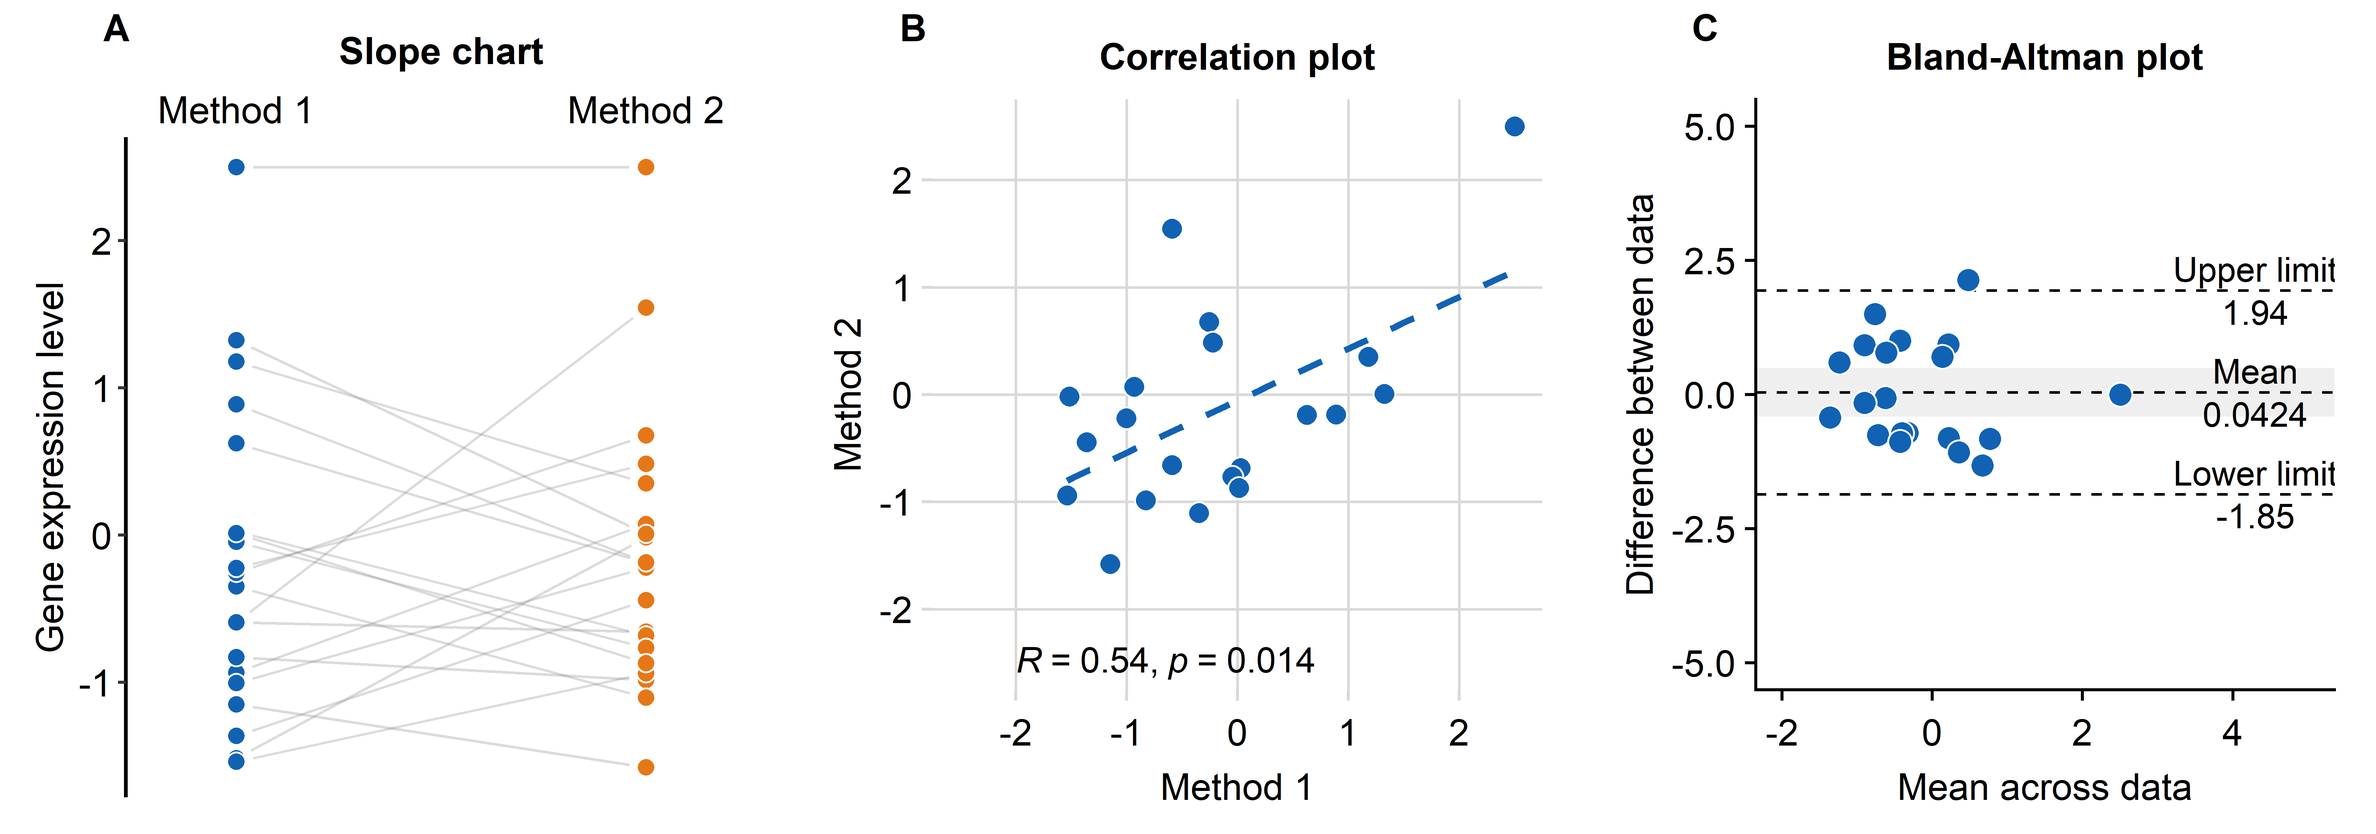
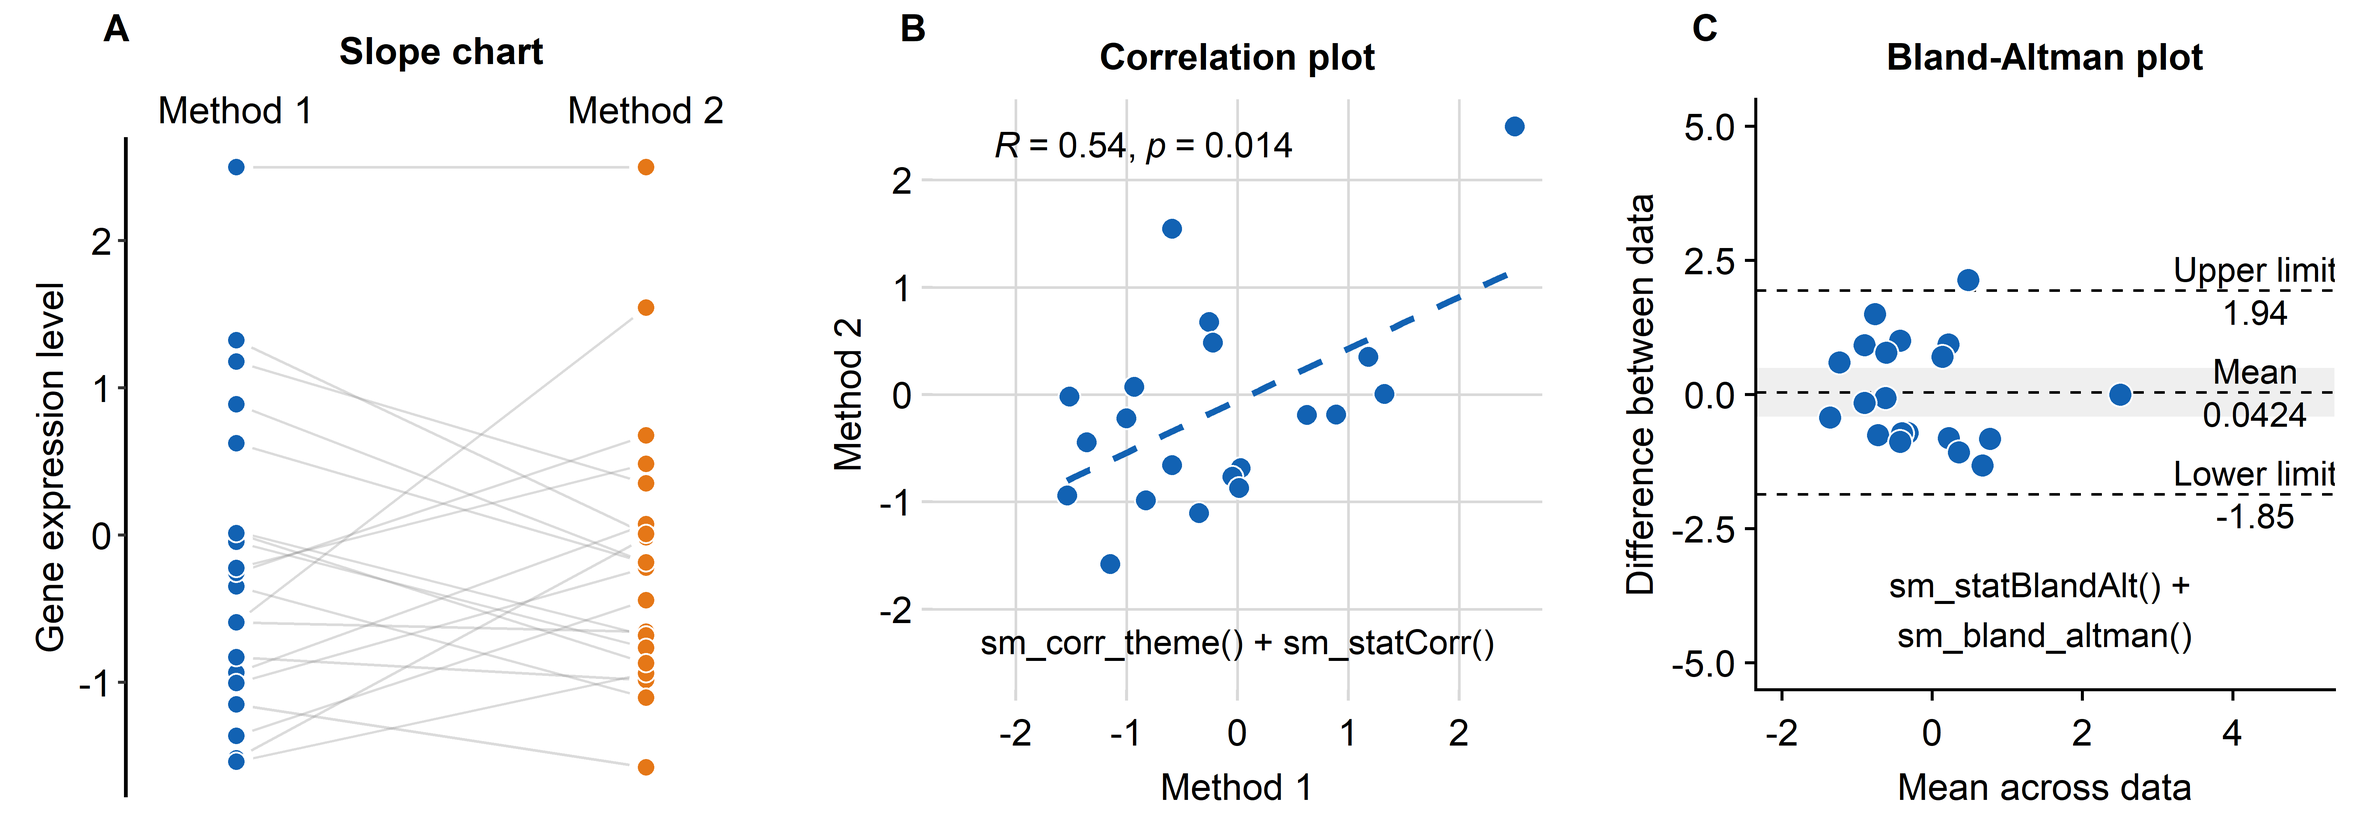
annotation added ch6 case study

diff --git a/docs/recreating-the-manuscript-figures.html b/docs/recreating-the-manuscript-figures.html
@@ -24,7 +24,7 @@
 <meta name="author" content="Seung Hyun Min" />
 
 
-<meta name="date" content="2021-10-26" />
+<meta name="date" content="2021-10-27" />
 
   <meta name="viewport" content="width=device-width, initial-scale=1" />
   <meta name="apple-mobile-web-app-capable" content="yes" />
@@ -648,34 +648,36 @@ code span.wa { color: #60a0b0; font-weight: bold; font-style: italic; } /* Warni
 <span id="cb176-26"><a href="recreating-the-manuscript-figures.html#cb176-26" aria-hidden="true" tabindex="-1"></a>  <span class="fu">scale_y_continuous</span>(<span class="at">limits =</span> <span class="fu">c</span>(<span class="sc">-</span><span class="fl">2.5</span>,<span class="fl">2.5</span>)) <span class="sc">+</span></span>
 <span id="cb176-27"><a href="recreating-the-manuscript-figures.html#cb176-27" aria-hidden="true" tabindex="-1"></a>  <span class="fu">scale_x_continuous</span>(<span class="at">limits =</span> <span class="fu">c</span>(<span class="sc">-</span><span class="fl">2.5</span>,<span class="fl">2.5</span>)) <span class="sc">+</span></span>
 <span id="cb176-28"><a href="recreating-the-manuscript-figures.html#cb176-28" aria-hidden="true" tabindex="-1"></a>  <span class="fu">sm_statCorr</span>(<span class="at">color =</span> <span class="fu">sm_color</span>(<span class="st">&#39;blue&#39;</span>), <span class="at">corr_method =</span> <span class="st">&#39;pearson&#39;</span>,</span>
-<span id="cb176-29"><a href="recreating-the-manuscript-figures.html#cb176-29" aria-hidden="true" tabindex="-1"></a>              <span class="at">label_x =</span> <span class="sc">-</span><span class="dv">2</span>, <span class="at">label_y =</span> <span class="sc">-</span><span class="fl">2.5</span>) <span class="sc">+</span></span>
+<span id="cb176-29"><a href="recreating-the-manuscript-figures.html#cb176-29" aria-hidden="true" tabindex="-1"></a>              <span class="at">label_x =</span> <span class="sc">-</span><span class="fl">2.2</span>, <span class="at">label_y =</span> <span class="fl">2.3</span>) <span class="sc">+</span></span>
 <span id="cb176-30"><a href="recreating-the-manuscript-figures.html#cb176-30" aria-hidden="true" tabindex="-1"></a>  <span class="fu">ggtitle</span>(<span class="st">&#39;Correlation plot&#39;</span>) <span class="sc">+</span> </span>
-<span id="cb176-31"><a href="recreating-the-manuscript-figures.html#cb176-31" aria-hidden="true" tabindex="-1"></a>  <span class="fu">xlab</span>(<span class="st">&#39;Method 1&#39;</span>) <span class="sc">+</span> <span class="fu">ylab</span>(<span class="st">&#39;Method 2&#39;</span>)</span>
-<span id="cb176-32"><a href="recreating-the-manuscript-figures.html#cb176-32" aria-hidden="true" tabindex="-1"></a></span>
-<span id="cb176-33"><a href="recreating-the-manuscript-figures.html#cb176-33" aria-hidden="true" tabindex="-1"></a><span class="co"># BA plot</span></span>
-<span id="cb176-34"><a href="recreating-the-manuscript-figures.html#cb176-34" aria-hidden="true" tabindex="-1"></a>res <span class="ot">&lt;-</span> <span class="fu">sm_statBlandAlt</span>(df3<span class="sc">$</span>first,df3<span class="sc">$</span>second)</span>
-<span id="cb176-35"><a href="recreating-the-manuscript-figures.html#cb176-35" aria-hidden="true" tabindex="-1"></a></span>
-<span id="cb176-36"><a href="recreating-the-manuscript-figures.html#cb176-36" aria-hidden="true" tabindex="-1"></a>ba_plot <span class="ot">&lt;-</span> <span class="fu">sm_bland_altman</span>(df3<span class="sc">$</span>first, df3<span class="sc">$</span>second, <span class="at">shape =</span> <span class="dv">21</span>,</span>
-<span id="cb176-37"><a href="recreating-the-manuscript-figures.html#cb176-37" aria-hidden="true" tabindex="-1"></a>                <span class="at">color =</span> <span class="st">&#39;white&#39;</span>,</span>
-<span id="cb176-38"><a href="recreating-the-manuscript-figures.html#cb176-38" aria-hidden="true" tabindex="-1"></a>                <span class="at">fill =</span> <span class="fu">sm_color</span>(<span class="st">&#39;blue&#39;</span>)) <span class="sc">+</span> </span>
-<span id="cb176-39"><a href="recreating-the-manuscript-figures.html#cb176-39" aria-hidden="true" tabindex="-1"></a>  <span class="fu">scale_y_continuous</span>(<span class="at">limits =</span> <span class="fu">c</span>(<span class="sc">-</span><span class="dv">5</span>,<span class="dv">5</span>)) <span class="sc">+</span></span>
-<span id="cb176-40"><a href="recreating-the-manuscript-figures.html#cb176-40" aria-hidden="true" tabindex="-1"></a>  <span class="fu">scale_x_continuous</span>(<span class="at">limits =</span> <span class="fu">c</span>(<span class="sc">-</span><span class="dv">2</span>,<span class="dv">5</span>)) <span class="sc">+</span></span>
-<span id="cb176-41"><a href="recreating-the-manuscript-figures.html#cb176-41" aria-hidden="true" tabindex="-1"></a>  <span class="fu">annotate</span>(<span class="st">&#39;text&#39;</span>, <span class="at">label =</span> <span class="st">&#39;Mean&#39;</span>, <span class="at">x =</span> <span class="fl">4.3</span>, <span class="at">y =</span> res<span class="sc">$</span>mean_diff <span class="sc">+</span> <span class="fl">0.4</span>) <span class="sc">+</span></span>
-<span id="cb176-42"><a href="recreating-the-manuscript-figures.html#cb176-42" aria-hidden="true" tabindex="-1"></a>  <span class="fu">annotate</span>(<span class="st">&#39;text&#39;</span>, <span class="at">label =</span> <span class="fu">signif</span>(res<span class="sc">$</span>mean_diff,<span class="dv">3</span>), <span class="at">x =</span> <span class="fl">4.3</span>, <span class="at">y =</span> res<span class="sc">$</span>mean_diff <span class="sc">-</span> <span class="fl">0.4</span>) <span class="sc">+</span></span>
-<span id="cb176-43"><a href="recreating-the-manuscript-figures.html#cb176-43" aria-hidden="true" tabindex="-1"></a>  <span class="fu">annotate</span>(<span class="st">&#39;text&#39;</span>, <span class="at">label =</span> <span class="st">&#39;Upper limit&#39;</span>, <span class="at">x =</span> <span class="fl">4.3</span>, <span class="at">y =</span> res<span class="sc">$</span>upper_limit <span class="sc">+</span> <span class="fl">0.4</span>) <span class="sc">+</span></span>
-<span id="cb176-44"><a href="recreating-the-manuscript-figures.html#cb176-44" aria-hidden="true" tabindex="-1"></a>  <span class="fu">annotate</span>(<span class="st">&#39;text&#39;</span>, <span class="at">label =</span> <span class="fu">signif</span>(res<span class="sc">$</span>upper_limit,<span class="dv">3</span>), <span class="at">x =</span> <span class="fl">4.3</span>, <span class="at">y =</span> res<span class="sc">$</span>upper_limit <span class="sc">-</span> <span class="fl">0.4</span>) <span class="sc">+</span></span>
-<span id="cb176-45"><a href="recreating-the-manuscript-figures.html#cb176-45" aria-hidden="true" tabindex="-1"></a>  <span class="fu">annotate</span>(<span class="st">&#39;text&#39;</span>, <span class="at">label =</span> <span class="st">&#39;Lower limit&#39;</span>, <span class="at">x =</span> <span class="fl">4.3</span>, <span class="at">y =</span> res<span class="sc">$</span>lower_limit <span class="sc">+</span> <span class="fl">0.4</span>) <span class="sc">+</span></span>
-<span id="cb176-46"><a href="recreating-the-manuscript-figures.html#cb176-46" aria-hidden="true" tabindex="-1"></a>  <span class="fu">annotate</span>(<span class="st">&#39;text&#39;</span>, <span class="at">label =</span> <span class="fu">signif</span>(res<span class="sc">$</span>lower_limit,<span class="dv">3</span>), <span class="at">x =</span> <span class="fl">4.3</span>, <span class="at">y =</span> res<span class="sc">$</span>lower_limit <span class="sc">-</span> <span class="fl">0.4</span>) <span class="sc">+</span> </span>
-<span id="cb176-47"><a href="recreating-the-manuscript-figures.html#cb176-47" aria-hidden="true" tabindex="-1"></a>  <span class="fu">ggtitle</span>(<span class="st">&#39;Bland-Altman plot&#39;</span>) </span>
-<span id="cb176-48"><a href="recreating-the-manuscript-figures.html#cb176-48" aria-hidden="true" tabindex="-1"></a></span>
-<span id="cb176-49"><a href="recreating-the-manuscript-figures.html#cb176-49" aria-hidden="true" tabindex="-1"></a>case_study <span class="ot">&lt;-</span> <span class="fu">plot_grid</span>(slope, corr_plot, ba_plot, </span>
-<span id="cb176-50"><a href="recreating-the-manuscript-figures.html#cb176-50" aria-hidden="true" tabindex="-1"></a>                     <span class="at">labels =</span> <span class="fu">c</span>(<span class="st">&quot;A&quot;</span>, <span class="st">&quot;B&quot;</span>, <span class="st">&quot;C&quot;</span>),</span>
-<span id="cb176-51"><a href="recreating-the-manuscript-figures.html#cb176-51" aria-hidden="true" tabindex="-1"></a>                     <span class="at">hjust =</span> <span class="sc">-</span><span class="dv">4</span>, <span class="co"># horizontal position of ABC labels</span></span>
-<span id="cb176-52"><a href="recreating-the-manuscript-figures.html#cb176-52" aria-hidden="true" tabindex="-1"></a>                     <span class="at">label_size =</span> <span class="dv">12</span>,</span>
-<span id="cb176-53"><a href="recreating-the-manuscript-figures.html#cb176-53" aria-hidden="true" tabindex="-1"></a>                     <span class="at">ncol =</span> <span class="dv">3</span>, <span class="at">nrow =</span> <span class="dv">1</span>, </span>
-<span id="cb176-54"><a href="recreating-the-manuscript-figures.html#cb176-54" aria-hidden="true" tabindex="-1"></a>                     <span class="at">scale =</span> <span class="fl">0.95</span>)</span>
-<span id="cb176-55"><a href="recreating-the-manuscript-figures.html#cb176-55" aria-hidden="true" tabindex="-1"></a></span>
-<span id="cb176-56"><a href="recreating-the-manuscript-figures.html#cb176-56" aria-hidden="true" tabindex="-1"></a><span class="fu">print</span>(case_study)</span></code></pre></div>
+<span id="cb176-31"><a href="recreating-the-manuscript-figures.html#cb176-31" aria-hidden="true" tabindex="-1"></a>  <span class="fu">xlab</span>(<span class="st">&#39;Method 1&#39;</span>) <span class="sc">+</span> <span class="fu">ylab</span>(<span class="st">&#39;Method 2&#39;</span>) <span class="sc">+</span></span>
+<span id="cb176-32"><a href="recreating-the-manuscript-figures.html#cb176-32" aria-hidden="true" tabindex="-1"></a>  <span class="fu">annotate</span>(<span class="st">&#39;text&#39;</span>, <span class="at">x =</span> <span class="dv">0</span>, <span class="at">y =</span> <span class="sc">-</span><span class="fl">2.3</span>, <span class="at">label =</span> <span class="st">&#39;sm_corr_theme() + sm_statCorr()&#39;</span>)</span>
+<span id="cb176-33"><a href="recreating-the-manuscript-figures.html#cb176-33" aria-hidden="true" tabindex="-1"></a></span>
+<span id="cb176-34"><a href="recreating-the-manuscript-figures.html#cb176-34" aria-hidden="true" tabindex="-1"></a><span class="co"># BA plot</span></span>
+<span id="cb176-35"><a href="recreating-the-manuscript-figures.html#cb176-35" aria-hidden="true" tabindex="-1"></a>res <span class="ot">&lt;-</span> <span class="fu">sm_statBlandAlt</span>(df3<span class="sc">$</span>first,df3<span class="sc">$</span>second)</span>
+<span id="cb176-36"><a href="recreating-the-manuscript-figures.html#cb176-36" aria-hidden="true" tabindex="-1"></a></span>
+<span id="cb176-37"><a href="recreating-the-manuscript-figures.html#cb176-37" aria-hidden="true" tabindex="-1"></a>ba_plot <span class="ot">&lt;-</span> <span class="fu">sm_bland_altman</span>(df3<span class="sc">$</span>first, df3<span class="sc">$</span>second, <span class="at">shape =</span> <span class="dv">21</span>,</span>
+<span id="cb176-38"><a href="recreating-the-manuscript-figures.html#cb176-38" aria-hidden="true" tabindex="-1"></a>                <span class="at">color =</span> <span class="st">&#39;white&#39;</span>,</span>
+<span id="cb176-39"><a href="recreating-the-manuscript-figures.html#cb176-39" aria-hidden="true" tabindex="-1"></a>                <span class="at">fill =</span> <span class="fu">sm_color</span>(<span class="st">&#39;blue&#39;</span>)) <span class="sc">+</span> </span>
+<span id="cb176-40"><a href="recreating-the-manuscript-figures.html#cb176-40" aria-hidden="true" tabindex="-1"></a>  <span class="fu">scale_y_continuous</span>(<span class="at">limits =</span> <span class="fu">c</span>(<span class="sc">-</span><span class="dv">5</span>,<span class="dv">5</span>)) <span class="sc">+</span></span>
+<span id="cb176-41"><a href="recreating-the-manuscript-figures.html#cb176-41" aria-hidden="true" tabindex="-1"></a>  <span class="fu">scale_x_continuous</span>(<span class="at">limits =</span> <span class="fu">c</span>(<span class="sc">-</span><span class="dv">2</span>,<span class="dv">5</span>)) <span class="sc">+</span></span>
+<span id="cb176-42"><a href="recreating-the-manuscript-figures.html#cb176-42" aria-hidden="true" tabindex="-1"></a>  <span class="fu">annotate</span>(<span class="st">&#39;text&#39;</span>, <span class="at">label =</span> <span class="st">&#39;Mean&#39;</span>, <span class="at">x =</span> <span class="fl">4.3</span>, <span class="at">y =</span> res<span class="sc">$</span>mean_diff <span class="sc">+</span> <span class="fl">0.4</span>) <span class="sc">+</span></span>
+<span id="cb176-43"><a href="recreating-the-manuscript-figures.html#cb176-43" aria-hidden="true" tabindex="-1"></a>  <span class="fu">annotate</span>(<span class="st">&#39;text&#39;</span>, <span class="at">label =</span> <span class="fu">signif</span>(res<span class="sc">$</span>mean_diff,<span class="dv">3</span>), <span class="at">x =</span> <span class="fl">4.3</span>, <span class="at">y =</span> res<span class="sc">$</span>mean_diff <span class="sc">-</span> <span class="fl">0.4</span>) <span class="sc">+</span></span>
+<span id="cb176-44"><a href="recreating-the-manuscript-figures.html#cb176-44" aria-hidden="true" tabindex="-1"></a>  <span class="fu">annotate</span>(<span class="st">&#39;text&#39;</span>, <span class="at">label =</span> <span class="st">&#39;Upper limit&#39;</span>, <span class="at">x =</span> <span class="fl">4.3</span>, <span class="at">y =</span> res<span class="sc">$</span>upper_limit <span class="sc">+</span> <span class="fl">0.4</span>) <span class="sc">+</span></span>
+<span id="cb176-45"><a href="recreating-the-manuscript-figures.html#cb176-45" aria-hidden="true" tabindex="-1"></a>  <span class="fu">annotate</span>(<span class="st">&#39;text&#39;</span>, <span class="at">label =</span> <span class="fu">signif</span>(res<span class="sc">$</span>upper_limit,<span class="dv">3</span>), <span class="at">x =</span> <span class="fl">4.3</span>, <span class="at">y =</span> res<span class="sc">$</span>upper_limit <span class="sc">-</span> <span class="fl">0.4</span>) <span class="sc">+</span></span>
+<span id="cb176-46"><a href="recreating-the-manuscript-figures.html#cb176-46" aria-hidden="true" tabindex="-1"></a>  <span class="fu">annotate</span>(<span class="st">&#39;text&#39;</span>, <span class="at">label =</span> <span class="st">&#39;Lower limit&#39;</span>, <span class="at">x =</span> <span class="fl">4.3</span>, <span class="at">y =</span> res<span class="sc">$</span>lower_limit <span class="sc">+</span> <span class="fl">0.4</span>) <span class="sc">+</span></span>
+<span id="cb176-47"><a href="recreating-the-manuscript-figures.html#cb176-47" aria-hidden="true" tabindex="-1"></a>  <span class="fu">annotate</span>(<span class="st">&#39;text&#39;</span>, <span class="at">label =</span> <span class="fu">signif</span>(res<span class="sc">$</span>lower_limit,<span class="dv">3</span>), <span class="at">x =</span> <span class="fl">4.3</span>, <span class="at">y =</span> res<span class="sc">$</span>lower_limit <span class="sc">-</span> <span class="fl">0.4</span>) <span class="sc">+</span> </span>
+<span id="cb176-48"><a href="recreating-the-manuscript-figures.html#cb176-48" aria-hidden="true" tabindex="-1"></a>  <span class="fu">ggtitle</span>(<span class="st">&#39;Bland-Altman plot&#39;</span>) <span class="sc">+</span></span>
+<span id="cb176-49"><a href="recreating-the-manuscript-figures.html#cb176-49" aria-hidden="true" tabindex="-1"></a>  <span class="fu">annotate</span>(<span class="st">&#39;text&#39;</span>, <span class="at">x =</span> <span class="fl">1.5</span>, <span class="at">y =</span> <span class="sc">-</span><span class="dv">4</span>, <span class="at">label =</span> <span class="st">&#39;sm_statBlandAlt() + </span><span class="sc">\n</span><span class="st">sm_bland_altman()&#39;</span>)</span>
+<span id="cb176-50"><a href="recreating-the-manuscript-figures.html#cb176-50" aria-hidden="true" tabindex="-1"></a></span>
+<span id="cb176-51"><a href="recreating-the-manuscript-figures.html#cb176-51" aria-hidden="true" tabindex="-1"></a>case_study <span class="ot">&lt;-</span> <span class="fu">plot_grid</span>(slope, corr_plot, ba_plot, </span>
+<span id="cb176-52"><a href="recreating-the-manuscript-figures.html#cb176-52" aria-hidden="true" tabindex="-1"></a>                     <span class="at">labels =</span> <span class="fu">c</span>(<span class="st">&quot;A&quot;</span>, <span class="st">&quot;B&quot;</span>, <span class="st">&quot;C&quot;</span>),</span>
+<span id="cb176-53"><a href="recreating-the-manuscript-figures.html#cb176-53" aria-hidden="true" tabindex="-1"></a>                     <span class="at">hjust =</span> <span class="sc">-</span><span class="dv">4</span>, <span class="co"># horizontal position of ABC labels</span></span>
+<span id="cb176-54"><a href="recreating-the-manuscript-figures.html#cb176-54" aria-hidden="true" tabindex="-1"></a>                     <span class="at">label_size =</span> <span class="dv">12</span>,</span>
+<span id="cb176-55"><a href="recreating-the-manuscript-figures.html#cb176-55" aria-hidden="true" tabindex="-1"></a>                     <span class="at">ncol =</span> <span class="dv">3</span>, <span class="at">nrow =</span> <span class="dv">1</span>, </span>
+<span id="cb176-56"><a href="recreating-the-manuscript-figures.html#cb176-56" aria-hidden="true" tabindex="-1"></a>                     <span class="at">scale =</span> <span class="fl">0.95</span>)</span>
+<span id="cb176-57"><a href="recreating-the-manuscript-figures.html#cb176-57" aria-hidden="true" tabindex="-1"></a></span>
+<span id="cb176-58"><a href="recreating-the-manuscript-figures.html#cb176-58" aria-hidden="true" tabindex="-1"></a><span class="fu">print</span>(case_study)</span></code></pre></div>
 <p><img src="bookdownproj_files/figure-html/unnamed-chunk-143-1.png" width="1051.2" /></p>
 <div class="sourceCode" id="cb177"><pre class="sourceCode r"><code class="sourceCode r"><span id="cb177-1"><a href="recreating-the-manuscript-figures.html#cb177-1" aria-hidden="true" tabindex="-1"></a><span class="fu">save_plot</span>(<span class="st">&quot;case_study.png&quot;</span>, </span>
 <span id="cb177-2"><a href="recreating-the-manuscript-figures.html#cb177-2" aria-hidden="true" tabindex="-1"></a>          case_study, <span class="at">ncol =</span> <span class="dv">3</span>, <span class="at">nrow =</span> <span class="dv">1</span>, <span class="at">base_asp =</span> .<span class="dv">95</span>,</span>

diff --git a/docs/index.html b/docs/index.html
@@ -24,7 +24,7 @@
 <meta name="author" content="Seung Hyun Min" />
 
 
-<meta name="date" content="2021-10-26" />
+<meta name="date" content="2021-10-27" />
 
   <meta name="viewport" content="width=device-width, initial-scale=1" />
   <meta name="apple-mobile-web-app-capable" content="yes" />
@@ -286,7 +286,7 @@ code span.wa { color: #60a0b0; font-weight: bold; font-style: italic; } /* Warni
 <div id="header">
 <h1 class="title">Data Visualization in R Using smplot</h1>
 <p class="author"><em>Seung Hyun Min</em></p>
-<p class="date" style="margin-top: 1.5em;"><em>2021-10-26</em></p>
+<p class="date" style="margin-top: 1.5em;"><em>2021-10-27</em></p>
 </div>
 <div id="index" class="section level1 unnumbered">
 <h1>Welcome!</h1>

diff --git a/docs/basics-of-ggplot2-and-correlation-plot.html b/docs/basics-of-ggplot2-and-correlation-plot.html
@@ -24,7 +24,7 @@
 <meta name="author" content="Seung Hyun Min" />
 
 
-<meta name="date" content="2021-10-26" />
+<meta name="date" content="2021-10-27" />
 
   <meta name="viewport" content="width=device-width, initial-scale=1" />
   <meta name="apple-mobile-web-app-capable" content="yes" />

diff --git a/docs/boxplot-and-violin-plot.html b/docs/boxplot-and-violin-plot.html
@@ -24,7 +24,7 @@
 <meta name="author" content="Seung Hyun Min" />
 
 
-<meta name="date" content="2021-10-26" />
+<meta name="date" content="2021-10-27" />
 
   <meta name="viewport" content="width=device-width, initial-scale=1" />
   <meta name="apple-mobile-web-app-capable" content="yes" />

diff --git a/docs/download-rstudio-basics-of-r.html b/docs/download-rstudio-basics-of-r.html
@@ -24,7 +24,7 @@
 <meta name="author" content="Seung Hyun Min" />
 
 
-<meta name="date" content="2021-10-26" />
+<meta name="date" content="2021-10-27" />
 
   <meta name="viewport" content="width=device-width, initial-scale=1" />
   <meta name="apple-mobile-web-app-capable" content="yes" />

diff --git a/docs/full-guide-on-smplot.html b/docs/full-guide-on-smplot.html
@@ -24,7 +24,7 @@
 <meta name="author" content="Seung Hyun Min" />
 
 
-<meta name="date" content="2021-10-26" />
+<meta name="date" content="2021-10-27" />
 
   <meta name="viewport" content="width=device-width, initial-scale=1" />
   <meta name="apple-mobile-web-app-capable" content="yes" />

diff --git a/docs/recreating-the-cover-example-figure.html b/docs/recreating-the-cover-example-figure.html
@@ -24,7 +24,7 @@
 <meta name="author" content="Seung Hyun Min" />
 
 
-<meta name="date" content="2021-10-26" />
+<meta name="date" content="2021-10-27" />
 
   <meta name="viewport" content="width=device-width, initial-scale=1" />
   <meta name="apple-mobile-web-app-capable" content="yes" />
